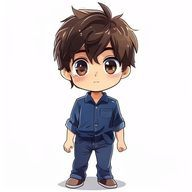
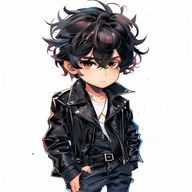
Regenerate player as stylish nampa, add 6 distinct NPC girl archetypes, amp up approach feedback
AI images regenerated with new prompts:
- player: leather-jacket nampa-shi, messy hair, confident smirk
- npc-waiting: long-hair girl on phone, cardigan
- npc-busy: OL with bob, white shirt, tote bag
- npc-friends: gyaru blonde with rainbow hoodie and space buns
- npc-eye: black-hair girl in floral dress, warm smile
- npc-earphones: pink-hair girl with big headphones
- npc-tourist: orange-hair girl with camera and bucket hat

spawnNpcs picks the variant texture matching the archetype via
npcVariantKey. Pixel mode still uses the single "npc" sprite with
setTint for variety; AI mode gets unique art per archetype plus
random variants for ambient crowd sprites.

Approach feedback is much louder so taps read immediately:
- The near-ring becomes a pulsing gold halo (thicker, bigger radius,
  soft fill, inner white rim) and approach radius grows 88 → 96.
- On success: camera flash, sprite bounce pop, big "反応あり！" overlay.
- On failure: camera shake, sprite horizontal shake with red tint,
  big "スルー..." overlay.
- Tapping an op without a nearby NPC shows big "もっと近づいて！"
  hint instead of just the small message.
- Entering near-range triggers a one-shot "→ 右下の op で声かけ！"
  prompt so the flow is teachable.

diff --git a/scenes/MainScene.js b/scenes/MainScene.js
@@ -1,6 +1,23 @@
 import { sfx } from "../sfx.js";
-import { getBest, setBest, getDifficulty, cycleDifficulty } from "../storage.js";
+import { getBest, setBest, getDifficulty, cycleDifficulty, getSpriteMode } from "../storage.js";
 import { buildCharacterTextures, registerCharacterAnimations } from "../characters.js";
+
+const NPC_VARIANT_KEYS = {
+  "待ち合わせ系": "npc-waiting",
+  "忙しい系": "npc-busy",
+  "友達同伴系": "npc-friends",
+  "目線あり系": "npc-eye",
+  "イヤホン系": "npc-earphones",
+  "観光・迷い中系": "npc-tourist",
+};
+const AMBIENT_VARIANTS = [
+  "npc-waiting",
+  "npc-busy",
+  "npc-friends",
+  "npc-eye",
+  "npc-earphones",
+  "npc-tourist",
+];
 
 const WORLD = { width: 760, height: 1280 };
 
@@ -194,7 +211,12 @@ export default class MainScene extends Phaser.Scene {
   preload() {
     this.load.image("tiles", "assets/tiles.png");
     this.load.image("ai_player_raw", "assets/ai/player.png");
-    this.load.image("ai_npc_raw", "assets/ai/npc.png");
+    this.load.image("ai_npc_waiting_raw", "assets/ai/npc-waiting.png");
+    this.load.image("ai_npc_busy_raw", "assets/ai/npc-busy.png");
+    this.load.image("ai_npc_friends_raw", "assets/ai/npc-friends.png");
+    this.load.image("ai_npc_eye_raw", "assets/ai/npc-eye.png");
+    this.load.image("ai_npc_earphones_raw", "assets/ai/npc-earphones.png");
+    this.load.image("ai_npc_tourist_raw", "assets/ai/npc-tourist.png");
   }
 
   create(data = {}) {
@@ -202,6 +224,7 @@ export default class MainScene extends Phaser.Scene {
     this.score = data.score || 0;
     this.best = Math.max(getBest(), this.score);
     this.difficulty = getDifficulty();
+    this.spriteMode = getSpriteMode().key;
     this.history = Array.isArray(data.history) ? data.history.slice(-3) : [];
     if (data.lastOutcome) this.pushHistory(data.lastOutcome);
     this.joystickVector = new Phaser.Math.Vector2();
@@ -577,9 +600,10 @@ export default class MainScene extends Phaser.Scene {
         map.key === "nagoya"
           ? stop.y + Phaser.Math.Between(-28, 28)
           : Phaser.Math.Between(530, 1100);
-      const sprite = this.add.sprite(x, y, "npc-0").setScale(1.45).setDepth(8);
-      sprite.setTint(this.npcTintFor(profile));
-      sprite.play("npc-walk");
+      const variantKey = this.npcVariantKey(profile);
+      const sprite = this.add.sprite(x, y, `${variantKey}-0`).setScale(1.45).setDepth(8);
+      if (this.spriteMode !== "icon") sprite.setTint(this.npcTintFor(profile));
+      sprite.play(`${variantKey}-walk`);
       const icons = this.makeFlagIcons(profile.flags)
         .setPosition(x, y - 38)
         .setDepth(12);
@@ -639,13 +663,18 @@ export default class MainScene extends Phaser.Scene {
         map.key === "nagoya"
           ? Phaser.Math.Between(150, 1140)
           : Phaser.Math.Between(530, 1100);
+      const ambientKey = this.spriteMode === "icon"
+        ? Phaser.Math.RND.pick(AMBIENT_VARIANTS)
+        : "npc";
       const sprite = this.add
-        .sprite(sx, sy, "npc-0")
-        .setScale(1.08)
+        .sprite(sx, sy, `${ambientKey}-0`)
+        .setScale(this.spriteMode === "icon" ? 0.78 : 1.08)
         .setDepth(6)
-        .setAlpha(map.key === "kabukicho" ? 0.42 : 0.32)
-        .setTint(map.key === "kabukicho" ? Phaser.Math.RND.pick([0x57f5ff, 0xffd24f, 0xff6f8f]) : 0xd8d8d8);
-      sprite.play("npc-walk");
+        .setAlpha(map.key === "kabukicho" ? 0.42 : 0.32);
+      if (this.spriteMode !== "icon") {
+        sprite.setTint(map.key === "kabukicho" ? Phaser.Math.RND.pick([0x57f5ff, 0xffd24f, 0xff6f8f]) : 0xd8d8d8);
+      }
+      sprite.play(`${ambientKey}-walk`);
       sprite.dir = Phaser.Math.RND.pick([-1, 1]);
       sprite.speed = Phaser.Math.Between(30, map.key === "kabukicho" ? 82 : 58);
       sprite.nextTurnAt = 0;
@@ -653,6 +682,11 @@ export default class MainScene extends Phaser.Scene {
       sprite.vy = Phaser.Math.FloatBetween(-1, 1);
       this.ambient.push(sprite);
     }
+  }
+
+  npcVariantKey(profile) {
+    if (this.spriteMode !== "icon") return "npc";
+    return NPC_VARIANT_KEYS[profile.type] || "npc-waiting";
   }
 
   npcTintFor(profile) {
@@ -969,6 +1003,7 @@ export default class MainScene extends Phaser.Scene {
   }
 
   updateNearestNpc() {
+    const prev = this.nearNpc;
     let nearest = null;
     let nearestDistance = Number.POSITIVE_INFINITY;
     this.npcs.forEach((npc) => {
@@ -980,10 +1015,20 @@ export default class MainScene extends Phaser.Scene {
       }
     });
 
-    this.nearNpc = nearestDistance <= 88 ? nearest : null;
+    this.nearNpc = nearestDistance <= 96 ? nearest : null;
     this.nearRing.clear();
     if (this.nearNpc) {
-      this.nearRing.lineStyle(3, 0xffffff, 0.68).strokeCircle(this.nearNpc.sprite.x, this.nearNpc.sprite.y, 34);
+      const pulse = 0.55 + 0.35 * Math.sin(this.time.now / 180);
+      const ringR = 44 + 3 * Math.sin(this.time.now / 200);
+      this.nearRing.fillStyle(0xfadc50, 0.12);
+      this.nearRing.fillCircle(this.nearNpc.sprite.x, this.nearNpc.sprite.y, ringR);
+      this.nearRing.lineStyle(4, 0xfadc50, pulse);
+      this.nearRing.strokeCircle(this.nearNpc.sprite.x, this.nearNpc.sprite.y, ringR);
+      this.nearRing.lineStyle(2, 0xffffff, 0.9);
+      this.nearRing.strokeCircle(this.nearNpc.sprite.x, this.nearNpc.sprite.y, ringR - 4);
+    }
+    if (this.nearNpc && !prev) {
+      this.showMessage("→ 右下の op で声かけ！", 1200);
     }
   }
 
@@ -1022,7 +1067,8 @@ export default class MainScene extends Phaser.Scene {
 
   tryApproach(actionKey) {
     if (!this.nearNpc) {
-      this.showMessage("まだ距離が遠い。進路をふさがない位置まで近づく。", 1500);
+      this.showBigText("もっと近づいて！", "#ffd24f");
+      this.showMessage("まだ距離が遠い。相手の近くまで寄ってから op を選ぶ。", 1500);
       return;
     }
 
@@ -1033,10 +1079,13 @@ export default class MainScene extends Phaser.Scene {
 
     if (roll <= rate) {
       sfx.play("success");
+      this.cameras.main.flash(140, 180, 255, 180);
+      this.bounceSprite(target.sprite);
+      this.showBigText("反応あり！", "#57f5ff");
       this.player.setVelocity(0, 0);
       this.pushHistory(`${actionLabel} 通過 (${Math.round(rate * 100)}%)`);
       this.showMessage(`${actionLabel}: 反応あり。会話へ。`, 650);
-      this.time.delayedCall(520, () => {
+      this.time.delayedCall(620, () => {
         this.scene.start("TalkScene", {
           profile: target.profile,
           mapKey: this.currentMapKey,
@@ -1050,11 +1099,68 @@ export default class MainScene extends Phaser.Scene {
     }
 
     sfx.play("fail");
+    this.cameras.main.shake(180, 0.005);
+    this.shakeSprite(target.sprite);
+    this.showBigText("スルー...", "#ff4d6d");
     target.disabled = true;
-    target.sprite.setAlpha(0.35);
+    target.sprite.setAlpha(0.4);
     target.icons.setAlpha(0.25);
     this.pushHistory(`スルー (${actionLabel} ${Math.round(rate * 100)}%)`);
     this.showMessage(`スルーされた。${this.feedbackFor(target.profile, actionKey)} 成功率${Math.round(rate * 100)}%`, 2300);
+  }
+
+  bounceSprite(sprite) {
+    const originalX = sprite.scaleX;
+    const originalY = sprite.scaleY;
+    this.tweens.add({
+      targets: sprite,
+      scaleX: originalX * 1.35,
+      scaleY: originalY * 1.35,
+      duration: 150,
+      yoyo: true,
+      ease: "Back.easeOut",
+    });
+  }
+
+  shakeSprite(sprite) {
+    const originalX = sprite.x;
+    this.tweens.add({
+      targets: sprite,
+      x: originalX + 5,
+      duration: 60,
+      yoyo: true,
+      repeat: 3,
+      onComplete: () => { sprite.x = originalX; },
+    });
+    sprite.setTint(0xff6070);
+    this.time.delayedCall(280, () => {
+      if (sprite.active) sprite.clearTint();
+    });
+  }
+
+  showBigText(text, color) {
+    const w = this.scale.width;
+    const h = this.scale.height;
+    const t = this.add
+      .text(w / 2, h * 0.4, text, {
+        fontFamily: "system-ui, sans-serif",
+        fontSize: `${Math.min(46, Math.max(32, w * 0.1))}px`,
+        color,
+        fontStyle: "bold",
+        stroke: "#0a0a10",
+        strokeThickness: 6,
+      })
+      .setOrigin(0.5)
+      .setScrollFactor(0)
+      .setDepth(70);
+    this.tweens.add({
+      targets: t,
+      y: h * 0.32,
+      alpha: 0,
+      duration: 1100,
+      ease: "Quad.easeOut",
+      onComplete: () => t.destroy(),
+    });
   }
 
   respectfullySkip() {

diff --git a/characters.js b/characters.js
@@ -11,7 +11,12 @@ import { getSpriteMode } from "./storage.js";
 
 const AI_SOURCE_KEYS = {
   player: "ai_player_raw",
-  npc: "ai_npc_raw",
+  "npc-waiting": "ai_npc_waiting_raw",
+  "npc-busy": "ai_npc_busy_raw",
+  "npc-friends": "ai_npc_friends_raw",
+  "npc-eye": "ai_npc_eye_raw",
+  "npc-earphones": "ai_npc_earphones_raw",
+  "npc-tourist": "ai_npc_tourist_raw",
 };
 
 const PALETTES = {
@@ -219,8 +224,11 @@ function renderAiFrame(scene, key) {
 
 export function buildCharacterTextures(scene) {
   const modeKey = getSpriteMode().key;
-  Object.entries(PALETTES).forEach(([key, palette]) => {
-    // Precompute the AI canvas once per character since both frames share it.
+  const targets = modeKey === "icon"
+    ? Object.keys(AI_SOURCE_KEYS)
+    : Object.keys(PALETTES);
+  targets.forEach((key) => {
+    const palette = PALETTES[key] || PALETTES.npc;
     const aiCanvas = modeKey === "icon" ? renderAiFrame(scene, key) : null;
     const effectiveMode = aiCanvas ? "icon" : "pixel";
     for (let frame = 0; frame < 2; frame += 1) {
@@ -238,20 +246,18 @@ export function buildCharacterTextures(scene) {
 }
 
 export function registerCharacterAnimations(scene) {
-  if (!scene.anims.exists("player-walk")) {
+  const modeKey = getSpriteMode().key;
+  const targets = modeKey === "icon"
+    ? Object.keys(AI_SOURCE_KEYS)
+    : Object.keys(PALETTES);
+  targets.forEach((key) => {
+    const animKey = `${key}-walk`;
+    if (scene.anims.exists(animKey)) return;
     scene.anims.create({
-      key: "player-walk",
-      frames: [{ key: "player-0" }, { key: "player-1" }],
-      frameRate: 6,
+      key: animKey,
+      frames: [{ key: `${key}-0` }, { key: `${key}-1` }],
+      frameRate: key === "player" ? 6 : 5,
       repeat: -1,
     });
-  }
-  if (!scene.anims.exists("npc-walk")) {
-    scene.anims.create({
-      key: "npc-walk",
-      frames: [{ key: "npc-0" }, { key: "npc-1" }],
-      frameRate: 5,
-      repeat: -1,
-    });
-  }
+  });
 }
